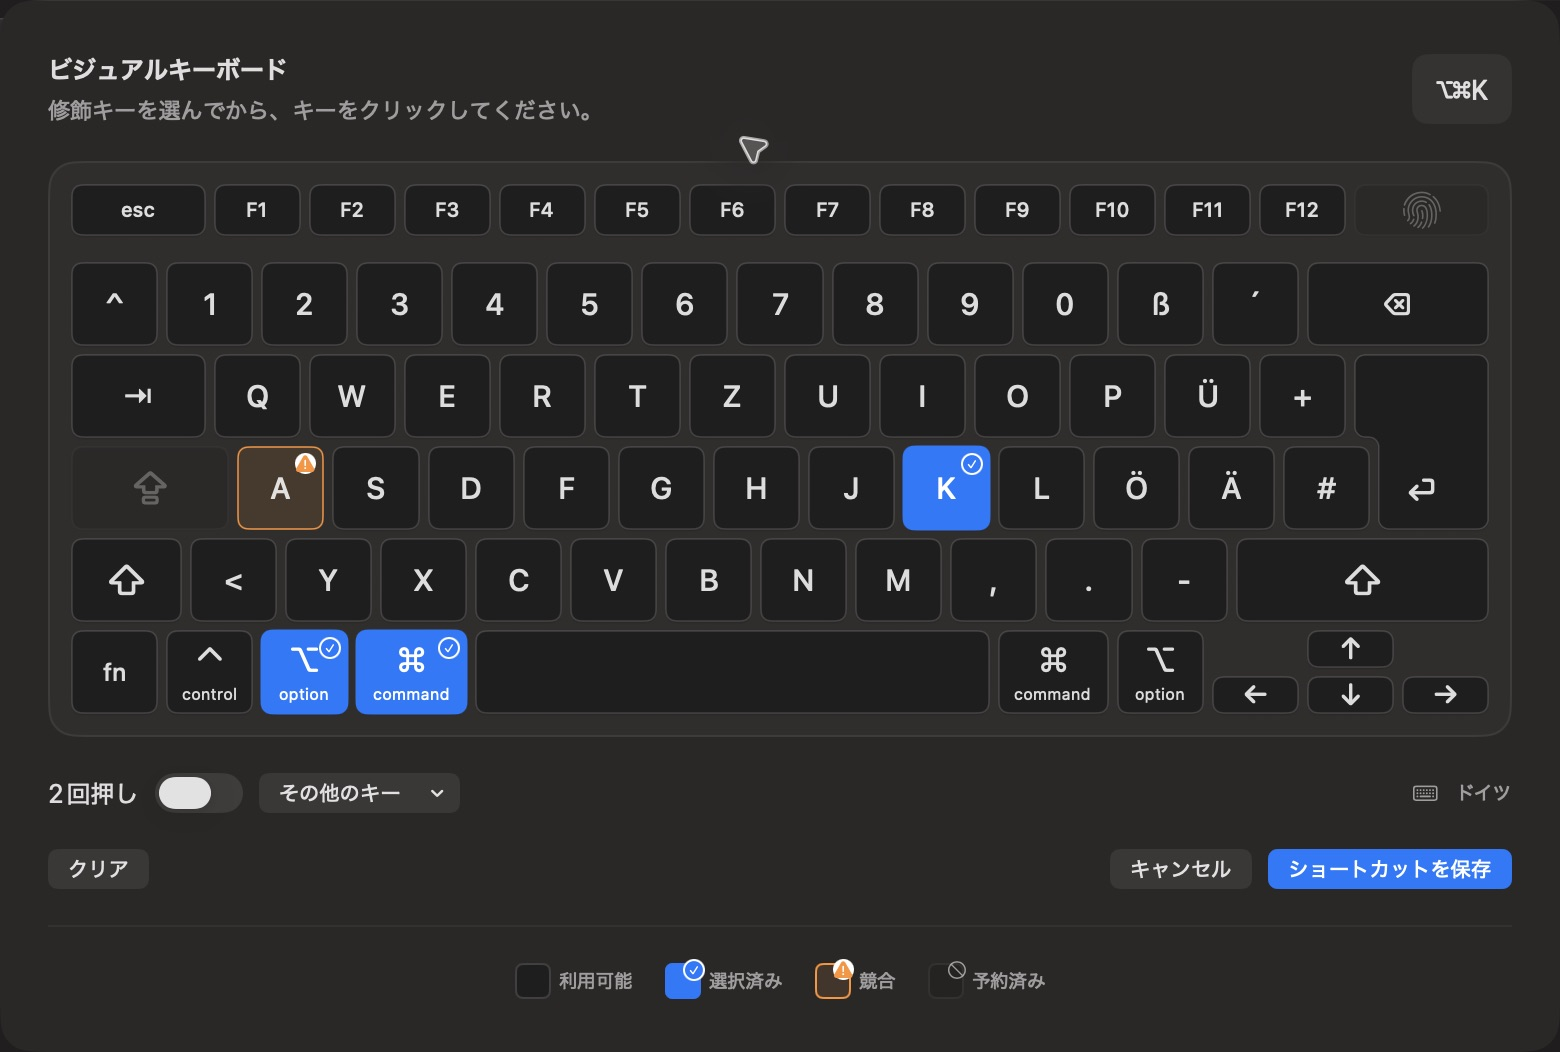
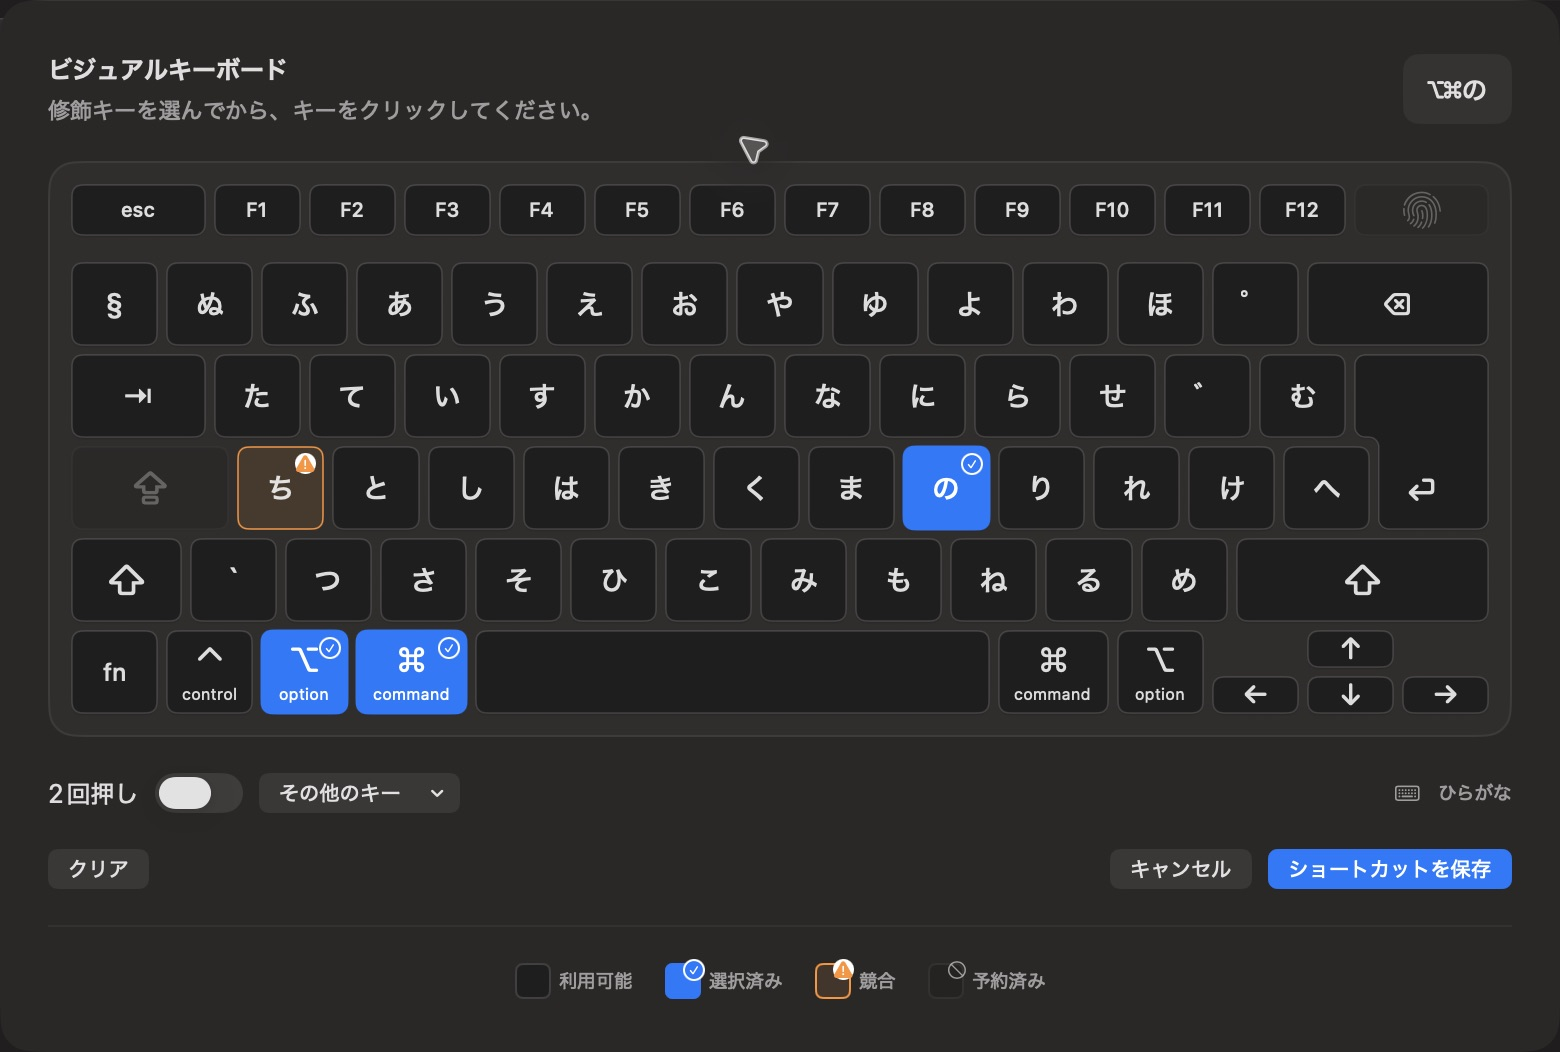
Capture keyboard previews with matching macOS input sources

diff --git a/README.md b/README.md
@@ -1,3 +1,12 @@
 Visual keyboard previews for TypeWhisper/typewhisper-mac#1412.
 
-Captured from the signed local Dev app built from commit 8053e9359. UI languages: German, English, Japanese, Simplified Chinese. All captures use the active German macOS input source and ISO hardware. These are localization previews, not physical JIS or live IME test evidence.
+Captured from the signed local Dev app built from commit 8053e93599db555e43cc7df922b7aff45a371fc4. Each screenshot pairs the app language with an actual active macOS input source:
+
+- German UI: German input source (com.apple.keylayout.German).
+- English UI: U.S. input source (com.apple.keylayout.US).
+- Japanese UI: Japanese - Kana / Hiragana (com.apple.inputmethod.Kotoeri.KanaTyping.Japanese), underlying com.apple.keylayout.KANA.
+- Simplified Chinese UI: Pinyin - Simplified (com.apple.inputmethod.SCIM.ITABC), with the ABC option instead of the German-layout option; underlying com.apple.keylayout.PinyinKeyboard. This uses Latin QWERTY letters and Chinese punctuation.
+
+All captures use the same physical ISO keyboard (hardware type 92). Physical JIS hardware was not tested. Live input-source switching was checked in the open visual keyboard, including preservation of the selected key/modifiers. The temporary input sources and automatically added dictation languages were removed after testing, restoring German input and the original German/English dictation languages.
+
+The initial screenshots at 91d0a39 changed only the app language and kept the German input source. These updated captures replace that limited locale-only evidence with actual input-source previews.
